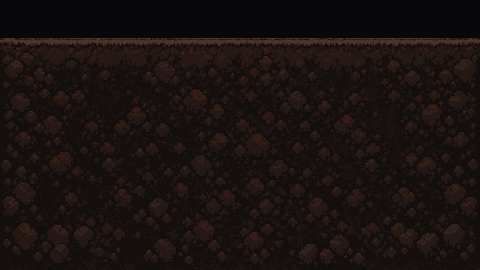
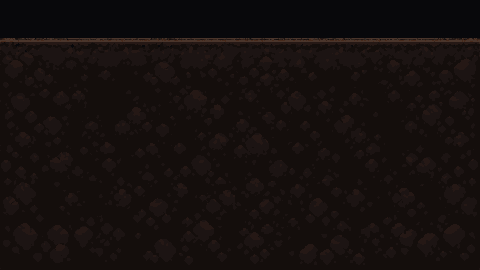
feat: refine D-001 mine graphics and visual hierarchy

Changed region(s): [[0.0, 0.1481, 1.0, 0.2074], [0.5625, 0.5926, 0.5938, 0.6222]]

diff --git a/tests/e2e/d001-visual.spec.ts b/tests/e2e/d001-visual.spec.ts
@@ -1,0 +1,99 @@
+import { expect, test } from '@playwright/test';
+import { readFileSync } from 'node:fs';
+import { createGameState } from '../../src/game/createGame';
+import { SAVE_KEY, serializeGameState } from '../../src/game/save';
+import { D001_ASSET_VERSION } from '../../src/render/assets/d001Manifest';
+
+const colors: string[] = JSON.parse(readFileSync(new URL('../../art/d001/palette.json', import.meta.url), 'utf8')).colors;
+
+test('D-001 PNGs keep their palette, binary alpha and logical dimensions', async ({ page }) => {
+  await page.goto('/');
+  const dimensions: Record<string, [number, number]> = {
+    'background-rock-base': [480, 270], 'background-tunnel-back': [480, 270],
+    'background-tunnel-structure': [480, 270], 'background-floor': [480, 270],
+    'node-scrap-ledge-atlas': [192, 40], 'node-copper-pocket-atlas': [192, 40],
+    'node-fossil-crack-atlas': [192, 40], 'player-body-atlas': [320, 320],
+    'player-helmet-atlas': [320, 320], 'npc-porter-atlas': [320, 320], 'cargo-items-atlas': [144, 10],
+  };
+  const results = await page.evaluate(async ({ dimensions, colors, version }) => {
+    return Promise.all(Object.keys(dimensions).map(async (name) => {
+      const image = new Image();
+      image.src = new URL(`assets/d001/runtime/${name}.png?v=${version}`, location.href).href;
+      await image.decode();
+      const canvas = document.createElement('canvas');
+      canvas.width = image.width; canvas.height = image.height;
+      const ctx = canvas.getContext('2d')!;
+      ctx.drawImage(image, 0, 0);
+      const data = ctx.getImageData(0, 0, image.width, image.height).data;
+      // Porter already uses the reserved automation pair; retain that identity.
+      const allowed = name === 'npc-porter-atlas' ? colors : colors.slice(0, 30);
+      let opaque = 0, invalid = 0;
+      for (let i = 0; i < data.length; i += 4) {
+        if (data[i + 3] === 0) continue;
+        opaque++;
+        const color = `#${Array.from(data.slice(i, i + 3)).map((v) => v.toString(16).padStart(2, '0')).join('')}`;
+        if (data[i + 3] !== 255 || !allowed.includes(color)) invalid++;
+      }
+      return { name, dimensions: [image.width, image.height], opaque, invalid,
+        cornerAlpha: data[3], chamberAlpha: name === 'background-tunnel-back' ? data[(164 * image.width + 80) * 4 + 3] : null,
+        shaftAlpha: name === 'background-tunnel-back' ? data[(180 * image.width + 240) * 4 + 3] : null };
+    }));
+  }, { dimensions, colors, version: D001_ASSET_VERSION });
+  for (const result of results) {
+    expect(result.dimensions, result.name).toEqual(dimensions[result.name]);
+    expect(result.opaque, result.name).toBeGreaterThan(0);
+    expect(result.invalid, result.name).toBe(0);
+    if (result.name !== 'background-rock-base') expect(result.cornerAlpha, result.name).toBe(0);
+  }
+  expect(results.find((result) => result.name === 'background-tunnel-back')).toMatchObject({ chamberAlpha: 255, shaftAlpha: 0 });
+});
+
+test('keeps D-001 readable through the first real manual delivery', async ({ page }, testInfo) => {
+  await page.setViewportSize({ width: 1200, height: 820 });
+  const errors: string[] = [];
+  page.on('pageerror', (error) => errors.push(error.message));
+  await page.goto('/');
+  const canvas = page.getByLabel('LOOP SHAFT mining floor');
+  await expect(page.locator('.hud-right')).toHaveAttribute('data-depth', 'D-001');
+  await expect(page.locator('.hud-right')).not.toContainText(/LOCKED|UNBUILT|RESEARCH/);
+  const box = await canvas.boundingBox();
+  expect(box?.width).toBe(960);
+  // Decode the largest changed image before capturing the initial state.
+  await page.evaluate(async (version) => {
+    const image = new Image(); image.src = `assets/d001/runtime/background-rock-base.png?v=${version}`; await image.decode();
+    await new Promise<void>((resolve) => requestAnimationFrame(() => requestAnimationFrame(() => resolve())));
+  }, D001_ASSET_VERSION);
+  await testInfo.attach('d001-initial', { body: await page.screenshot(), contentType: 'image/png' });
+  const point = (x: number, y: number) => ({ x: box!.x + x * 2, y: box!.y + y * 2 });
+  await page.mouse.click(point(118, 201).x, point(118, 201).y);
+  const mine = page.getByRole('button', { name: 'MINE', exact: true });
+  await expect(mine).toBeEnabled({ timeout: 10_000 });
+  await page.mouse.move(0, 0);
+  await testInfo.attach('d001-mine-ready', { body: await page.screenshot(), contentType: 'image/png' });
+  for (let swing = 0; swing < 3; swing++) {
+    await expect(mine).toBeEnabled({ timeout: 3_000 });
+    await page.keyboard.press('Space');
+  }
+  await expect(page.locator('.context-meta')).toContainText('Click or tap the loaded Elevator', { timeout: 15_000 });
+  await testInfo.attach('d001-loaded', { body: await page.screenshot(), contentType: 'image/png' });
+  await page.mouse.click(point(240, 190).x, point(240, 190).y);
+  await page.getByRole('button', { name: 'SEND', exact: true }).click();
+  await expect(page.locator('.hud-left strong').first()).toContainText(/SCRAP [1-9]/, { timeout: 15_000 });
+  expect(errors).toEqual([]);
+});
+
+test('uses 3x on a large D-001 viewport and preserves later-depth layout and HUD', async ({ page }) => {
+  await page.setViewportSize({ width: 1600, height: 1050 });
+  await page.goto('/');
+  await expect(page.locator('.hud-right')).toHaveAttribute('data-depth', 'D-001');
+  expect((await page.locator('canvas').boundingBox())?.width).toBe(1440);
+  const state = createGameState(9103);
+  state.run.depth.current = 'D-030';
+  state.run.depth.unlocked.push('D-030');
+  state.meta.bestDepth = 'D-030';
+  await page.addInitScript(({ key, value }) => localStorage.setItem(key, value), { key: SAVE_KEY, value: serializeGameState(state) });
+  await page.reload();
+  await expect(page.locator('.hud-right')).toHaveAttribute('data-depth', 'D-030');
+  await expect(page.locator('.hud-right')).toContainText('ENGINEER LOCKED');
+  expect((await page.locator('canvas').boundingBox())?.width).toBe(1142);
+});

diff --git a/src/render/initialGuideOverlay.ts b/src/render/initialGuideOverlay.ts
@@ -5,8 +5,8 @@ import { sameInteractionTarget, type InteractionTarget, type Point } from './int
 import { drawPixelText, fitPixelFont, measurePixelText } from './pixelText';
 
 const BACKGROUND = '#0b0b0df0';
-const BORDER = '#d0aa5f';
-const TEXT = '#fff0cf';
+const BORDER = '#916a4e';
+const TEXT = '#d8d2c8';
 
 export function initialGuideTargetKey(
   guide: InitialLogisticsGuide | null,
@@ -17,12 +17,33 @@ export function initialGuideTargetKey(
   return targets.find((target) => sameInteractionTarget(target.ref, ref))?.key ?? null;
 }
 
+/** The context panel keeps every instruction; world labels ask for an action or
+ * explain a blockage instead of narrating work that is already visible. */
+export function initialGuideLabel(guide: InitialLogisticsGuide): string | null {
+  switch (guide.step) {
+    case 'moving-to-vein':
+    case 'mining':
+    case 'collecting':
+    case 'returning':
+    case 'loading-lift':
+    case 'to-surface':
+    case 'appraising':
+      return null;
+    case 'choose-vein':
+      return 'SELECT VEIN';
+    default:
+      return guide.label;
+  }
+}
+
 export function drawInitialLogisticsGuide(
   ctx: CanvasRenderingContext2D,
   guide: InitialLogisticsGuide,
   targets: readonly InteractionTarget[],
   state: GameState,
 ): void {
+  const label = initialGuideLabel(guide);
+  if (!label) return;
   let anchor: Point | undefined;
   if (guide.target.kind === 'character') {
     anchor = { x: Math.round(state.run.character.x), y: Math.round(state.run.character.y) + 8 - 32 };
@@ -31,7 +52,7 @@ export function drawInitialLogisticsGuide(
     anchor = targets.find((target) => sameInteractionTarget(target.ref, ref))?.labelAnchor;
   }
   if (!anchor) return;
-  drawGuideLabel(ctx, guide.label, anchor);
+  drawGuideLabel(ctx, label, anchor);
 }
 
 export function drawDeliveryNotice(ctx: CanvasRenderingContext2D, amount: number): void {
@@ -49,8 +70,8 @@ function drawGuideLabel(ctx: CanvasRenderingContext2D, text: string, anchor: Poi
   if (y + height > WORLD.height - 2) y = WORLD.height - height - 2;
   ctx.fillStyle = BACKGROUND;
   ctx.fillRect(x, y, width, height);
-  ctx.strokeStyle = BORDER;
-  ctx.strokeRect(x + 0.5, y + 0.5, width, height);
+  ctx.fillStyle = BORDER;
+  ctx.fillRect(x, y + height - 1, width, 1);
   ctx.fillStyle = TEXT;
   drawPixelText(ctx, text, x + 4, y + 8, { font, baseline: 'bottom' });
   ctx.restore();

diff --git a/src/components/hud/Hud.tsx b/src/components/hud/Hud.tsx
@@ -30,14 +30,17 @@ export function RunStatusHud() {
   const run = state.run;
   const freight = run.logistics.freightCage;
   const engineer = run.engineer;
+  const shallow = run.depth.current === 'D-001';
+  const showResearch = !shallow || run.depth.unlocked.includes('D-060')
+    || run.research.active !== null || run.research.completed.length > 0;
 
   return (
-    <div className="hud hud-right">
-      <strong>RUN {String(state.meta.runIndex).padStart(2, '0')} · {run.depth.current}</strong><br />
-      <span className="muted">RESEARCH</span> {run.research.active ? RESEARCH[run.research.active.id].name : `${run.research.completed.length}/${Object.keys(RESEARCH).length}`}<br />
-      <span className="muted">ENGINEER</span> {engineer.unlocked ? formatState(engineer.state) : 'LOCKED'}<br />
-      <span className="muted">FREIGHT</span> {formatState(freight.state)}{freight.cargo.length > 0 && ` · ${fmt(cargoWeight(freight.cargo))}kg`}<br />
-      <span className="muted">BEST</span> {state.meta.bestDepth}
+    <div className="hud hud-right" data-depth={run.depth.current}>
+      <strong>RUN {String(state.meta.runIndex).padStart(2, '0')} · {run.depth.current}</strong>
+      {showResearch && <><br /><span className="muted">RESEARCH</span> {run.research.active ? RESEARCH[run.research.active.id].name : `${run.research.completed.length}/${Object.keys(RESEARCH).length}`}</>}
+      {(!shallow || engineer.unlocked) && <><br /><span className="muted">ENGINEER</span> {engineer.unlocked ? formatState(engineer.state) : 'LOCKED'}</>}
+      {(!shallow || freight.state !== 'UNBUILT') && <><br /><span className="muted">FREIGHT</span> {formatState(freight.state)}{freight.cargo.length > 0 && ` · ${fmt(cargoWeight(freight.cargo))}kg`}</>}
+      {(!shallow || state.meta.bestDepth !== run.depth.current) && <><br /><span className="muted">BEST</span> {state.meta.bestDepth}</>}
     </div>
   );
 }

diff --git a/tests/initialGuideOverlay.test.ts b/tests/initialGuideOverlay.test.ts
@@ -1,0 +1,32 @@
+import { describe, expect, test } from 'vitest';
+import type { InitialLogisticsGuide, InitialLogisticsGuideStep } from '../src/game/initialLogisticsGuide';
+import { initialGuideLabel } from '../src/render/initialGuideOverlay';
+
+function guide(step: InitialLogisticsGuideStep, label: string): InitialLogisticsGuide {
+  return { step, label, context: 'Detailed instruction remains available.', target: { kind: 'character' }, detailedMiningHelp: false };
+}
+
+describe('D-001 world guide labels', () => {
+  test.each([
+    'moving-to-vein', 'mining', 'collecting', 'returning', 'loading-lift', 'to-surface', 'appraising',
+  ] as const)('does not cover visible automatic work during %s', (step) => {
+    const original = Object.freeze(guide(step, 'STATUS'));
+    expect(initialGuideLabel(original)).toBeNull();
+    expect(original.context).toBe('Detailed instruction remains available.');
+    expect(original.label).toBe('STATUS');
+  });
+
+  test('shortens the first prompt without changing the underlying guide', () => {
+    const original = guide('choose-vein', 'CLICK/TAP TO MOVE');
+    expect(initialGuideLabel(original)).toBe('SELECT VEIN');
+    expect(original.label).toBe('CLICK/TAP TO MOVE');
+  });
+
+  test.each([
+    ['mine-ready', 'MINE'], ['select-elevator', 'SELECT ELEVATOR'],
+    ['send-to-surface', 'SEND TO SURFACE'], ['waiting-for-lift', 'WAITING FOR LIFT'],
+    ['depleted', 'DEPLETED · 4s'],
+  ] as const)('retains the actionable or blocked %s prompt', (step, label) => {
+    expect(initialGuideLabel(guide(step, label))).toBe(label);
+  });
+});

diff --git a/src/style.css b/src/style.css
@@ -38,3 +38,12 @@ button { font:inherit; }
 .help-line span:last-child { text-align:right; } kbd { border:1px solid #494248; background:#17151a; padding:1px 4px; color:#aaa1a0; font:inherit; }
 @media (max-width:800px) { .context-strip { grid-template-columns:1fr; gap:8px; } .context-actions { justify-content:flex-start; max-width:none; } .archive-layout { width:100%; grid-template-columns:1fr; } .choice-stack,.passive-stack,.research-stack,.protocol-stack { min-width:0; width:100%; } }
 @media (max-width:680px) { .game-root { padding:0; align-content:start; } .game-shell { border-left:0; border-right:0; } .action { flex:1; } .help-line { padding:8px; } .hud { top:5px; } .hud-left { left:5px; } .hud-right { right:5px; } .choice-line,.passive-line,.research-line,.protocol-line { grid-template-columns:1fr; gap:2px; } .archive-grid { grid-template-columns:1fr; } }
+/* D-001: use an integer logical-pixel scale when the complete desktop view fits.
+   Smaller/shorter viewports retain the existing responsive layout. Other depths
+   are deliberately unchanged; this is not a mobile layout redesign. */
+@media (min-width:1000px) and (min-height:700px) {
+  .game-root:has(.hud-right[data-depth="D-001"]) { width:998px; }
+}
+@media (min-width:1480px) and (min-height:1000px) {
+  .game-root:has(.hud-right[data-depth="D-001"]) { width:1478px; }
+}

diff --git a/src/render/assets/d001Manifest.ts b/src/render/assets/d001Manifest.ts
@@ -3,7 +3,7 @@ export type D001AssetKey = keyof typeof D001_ASSET_FILES;
 // Public runtime PNGs keep stable filenames for the fallback manifest. Bump this
 // value whenever those files change so a deployed browser cannot reuse an older
 // atlas from its HTTP cache.
-export const D001_ASSET_VERSION = '020e172-walk-side-2';
+export const D001_ASSET_VERSION = 'd001-chambers-1';
 
 export const D001_ASSET_FILES = {
   backgroundRock: 'background-rock-base.png',

diff --git a/docs/d001-visual-refinement.md b/docs/d001-visual-refinement.md
@@ -1,0 +1,33 @@
+# D-001 visual refinement
+
+D-001のみを対象とした画面の仕上げ。ゲームルール、保存形式、世界座標、hit領域、床の接地点、アニメーションのフレーム数・時刻・所有レイヤーは変更しない。
+
+## 変更
+
+- 既存の岩盤の大きな面を残し、孤立したピクセル模様と背景のコントラストを抑える。
+- 左右の坑道に異なる天井断面を作り、低ディテールの暗い奥面を広げる。
+- 既存の梁、筋交い、灯りのピクセルを再利用。柱だけを延長し、木目や金具を引き伸ばさない。
+- 床と接地点を維持し、人物の足元を横切っていた装飾レールを除去する。
+- 鉱脈の損傷シルエットに沿う薄い岩の縁を追加。Scrapの金属とCopper・Fossilを区別する。
+- PlayerとPorterの服、ヘルメット、通常Cargoの配色を既存パレット内で整理する。Porterの既存の自動化用青緑は維持する。
+- 初回ガイドの詳細説明は保持し、自動で進行する作業の頭上ラベルだけを非表示にする。操作待ち・停止理由は残す。
+- D-001では未解放の研究・Engineer・FreightをHUDから省き、使用可能になれば表示する。
+- 画面全体が収まるPC表示でCanvasを2倍・3倍の整数倍率にする。D-030以降と小さい画面の既存レイアウトは変更しない。
+
+## 素材の再生成
+
+`npm run assets:d001` は既存の `process-d001-assets.mjs` に続けて `refine-d001-assets.mjs` を実行する。後段だけを繰り返し適用しない。生成元は削除・上書きせず、runtime PNGもコミットする。ImageMagickは素材制作時だけに必要で、通常のbuild・testには追加しない。
+
+後段は固定の座標・既存パレットで処理し、半透明の輪郭、発光halo、ランダムな粒子や作業員を追加しない。PNGの版を更新し、古いHTTPキャッシュが混在しないようにする。
+
+## 確認
+
+`tests/initialGuideOverlay.test.ts` で表示する操作案内・停止理由と非表示の作業状態を検査する。
+
+`tests/e2e/d001-visual.spec.ts` はブラウザでPNGの寸法・パレット・alphaを読み、初期画面から実操作で採掘→回収→積載→SEND→換金を確認する。初期・採掘待機・積載の画面はPlaywright reportへ添付する。3倍表示とD-030の既存HUD・幅も確認する。ImageMagick依存のテストは追加しない。
+
+既存のゲーム・操作・保存・フォールバック検査はそのまま実行する。画面キャプチャは完成したゲーム体験の人手評価を代替しない。
+
+## 残す範囲
+
+全モーションの人体・道具の描き直し、カメラや操作位置の変更、スマートフォン縦持ち専用レイアウト、D-030以降の素材展開はこのPRには含めない。まずD-001の空間・明暗・情報量を比較できる単位として仕上げる。
